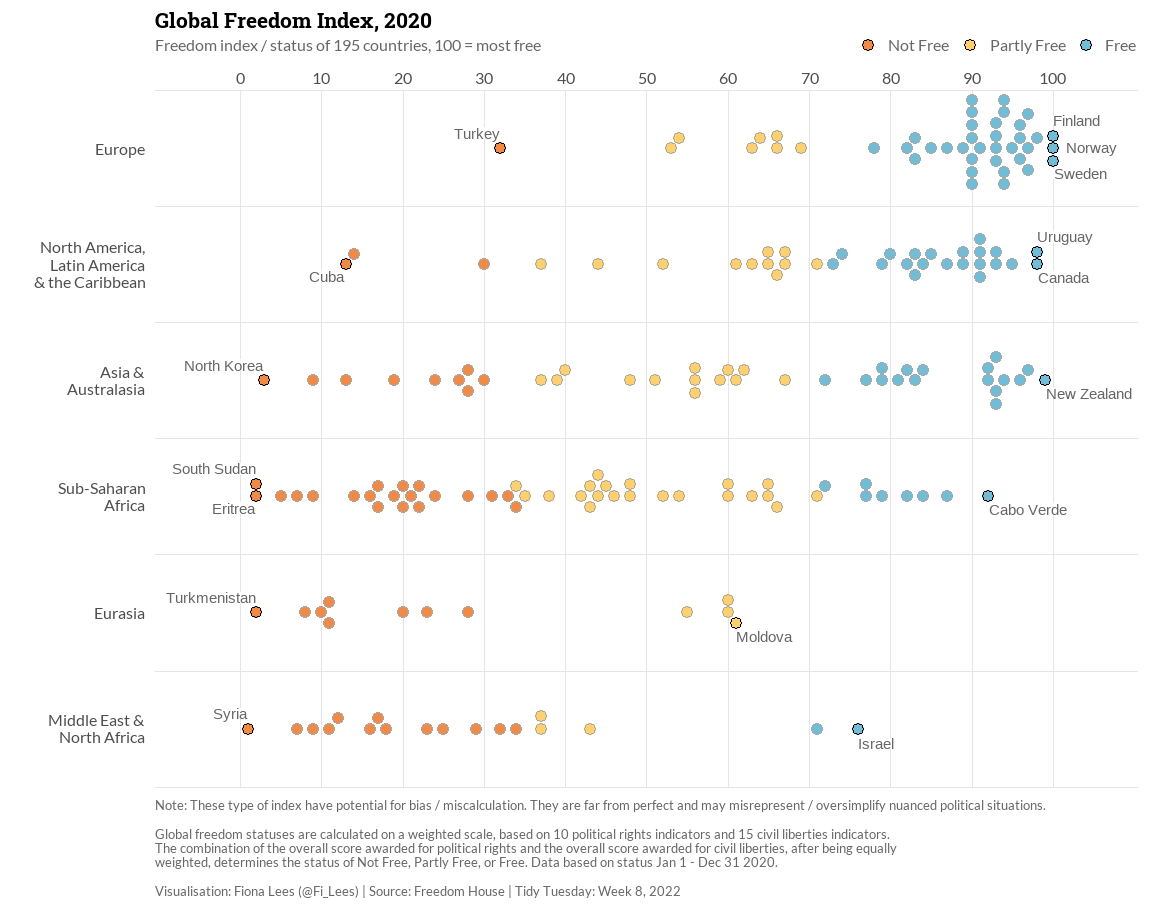
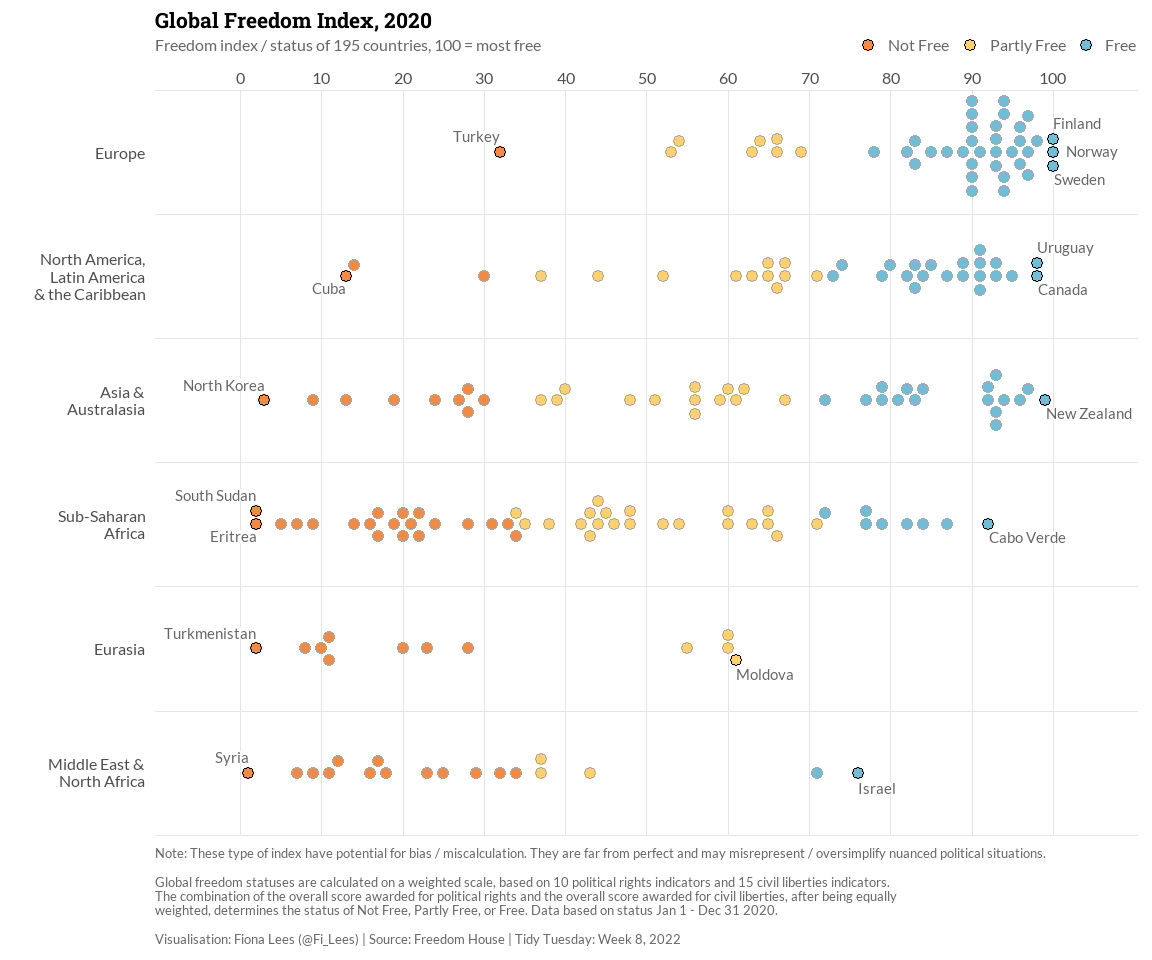
Fixing font error

diff --git a/2022/TT_2022_W8_Freedom/README.md b/2022/TT_2022_W8_Freedom/README.md
@@ -431,7 +431,8 @@ p_final <- countries_2020 %>%
   # Text labels for lowest scores
   geom_label(
     data = countries_2020_low, 
-    aes(label = country), 
+    aes(label = country),
+    family = "Lato",
     colour = "grey40",
     fill = "white",
     size = 3.88, 
@@ -447,6 +448,7 @@ p_final <- countries_2020 %>%
   geom_label(
     data = countries_2020_high, 
     aes(label = country), 
+    family = "Lato",
     colour = "grey40", 
     fill = "white",
     size = 3.88, 
@@ -509,7 +511,7 @@ Save the plot as an image.
 showtext_opts(dpi = 300)
 
 # Save plot as image
-ggsave("freedom_2020.png", p_final, width = 12 , height = 9.5, units = "in", dpi = 300)
+ggsave("freedom_2020.png", p_final, width = 12 , height = 10, units = "in", dpi = 300)
 
 # Turn off showtext
 showtext_auto(FALSE)
